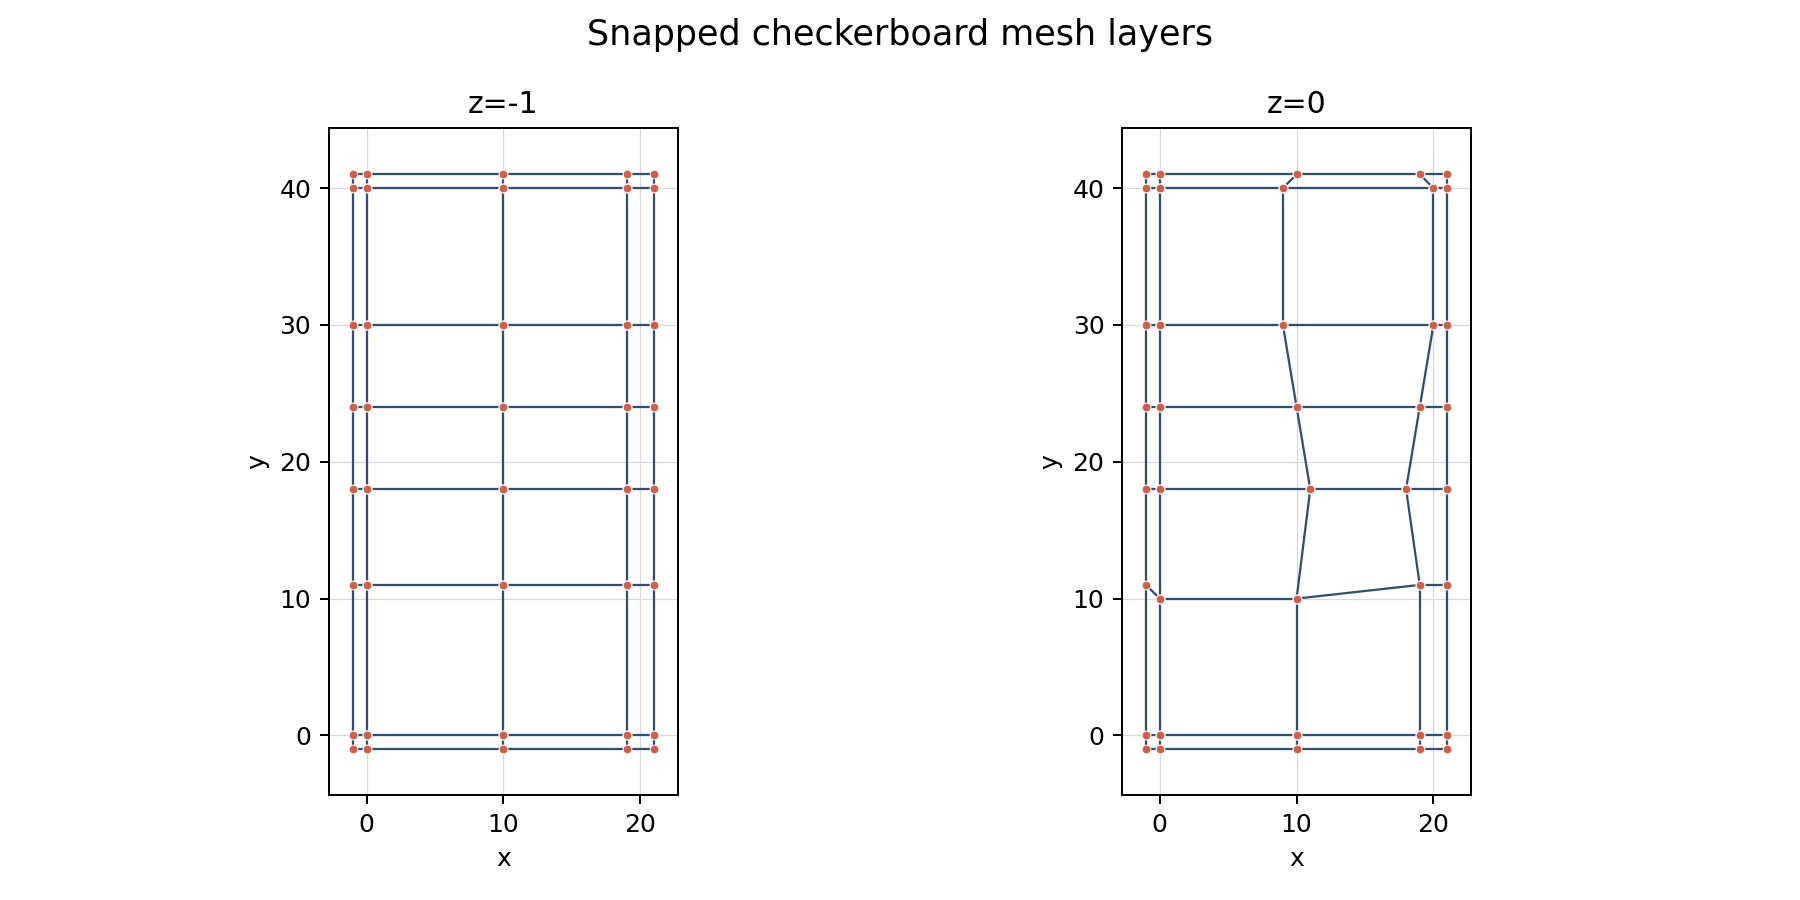
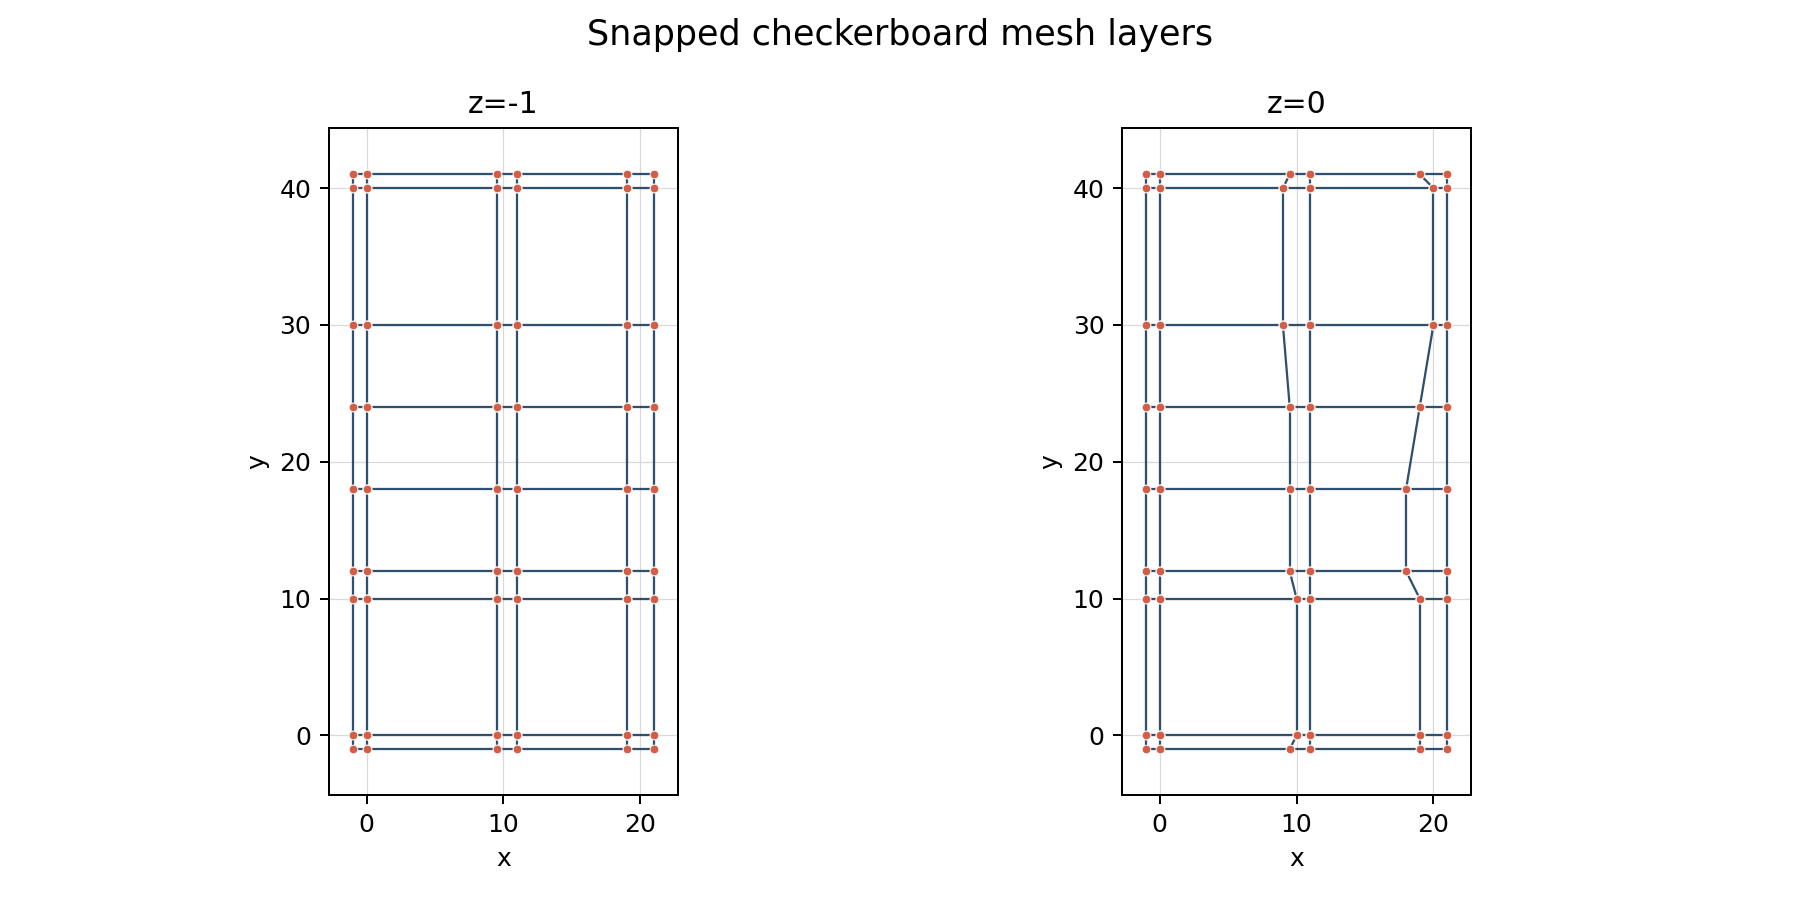
fix common node issue

diff --git a/src/optimal_checkerboard/algorithms/rail_builder.py b/src/optimal_checkerboard/algorithms/rail_builder.py
@@ -68,6 +68,9 @@ def _can_add_to_rail(rail, feature, merge_tol, eps, features_by_z):
         ):
             return False
 
+    if _has_near_endpoint_conflict(rail, feature, merge_tol, eps):
+        return False
+
     if _has_blocking_intermediate_feature(
         rail,
         feature,
@@ -79,6 +82,35 @@ def _can_add_to_rail(rail, feature, merge_tol, eps, features_by_z):
         return False
 
     return True
+
+
+def _has_near_endpoint_conflict(rail, feature, merge_tol, eps):
+    """Return whether near same-z endpoints should prevent rail sharing."""
+    for member in rail["members"]:
+        if member["z"] != feature["z"]:
+            continue
+        if abs(member["coord"] - feature["coord"]) <= eps:
+            continue
+
+        span_gap = _span_gap(
+            member["span_min"],
+            member["span_max"],
+            feature["span_min"],
+            feature["span_max"],
+        )
+        if eps < span_gap < merge_tol - eps:
+            return True
+
+    return False
+
+
+def _span_gap(a_min, a_max, b_min, b_max):
+    """Return the positive gap between disjoint spans, or zero otherwise."""
+    if a_max < b_min:
+        return b_min - a_max
+    if b_max < a_min:
+        return a_min - b_max
+    return 0.0
 
 
 def _has_blocking_intermediate_feature(

diff --git a/tests/test_build_shared_rails.py b/tests/test_build_shared_rails.py
@@ -23,6 +23,28 @@ class TestBuildSharedRails(unittest.TestCase):
         self.assertEqual(result["x_list"], [1.25])
         self.assertEqual(len(result["snap_rules_by_z"][0.0]), 2)
 
+    def test_same_z_near_corner_vertical_lines_do_not_share_rail(self):
+        """Verify near endpoints stay on separate vertical rails."""
+        lines = [
+            [[10, 0, 0], [10, 10, 0]],
+            [[11, 12, 0], [11, 18, 0]],
+        ]
+
+        result = build_shared_rails(lines, merge_tol=2.2)
+
+        self.assertEqual(result["x_list"], [10.0, 11.0])
+
+    def test_same_z_near_corner_horizontal_lines_do_not_share_rail(self):
+        """Verify near endpoints stay on separate horizontal rails."""
+        lines = [
+            [[0, 10, 0], [10, 10, 0]],
+            [[11, 12, 0], [18, 12, 0]],
+        ]
+
+        result = build_shared_rails(lines, merge_tol=2.2)
+
+        self.assertEqual(result["y_list"], [10.0, 12.0])
+
     def test_same_z_overlapping_lines_do_not_share_rail(self):
         """Verify same-z overlapping lines are assigned separate rails."""
         lines = [
